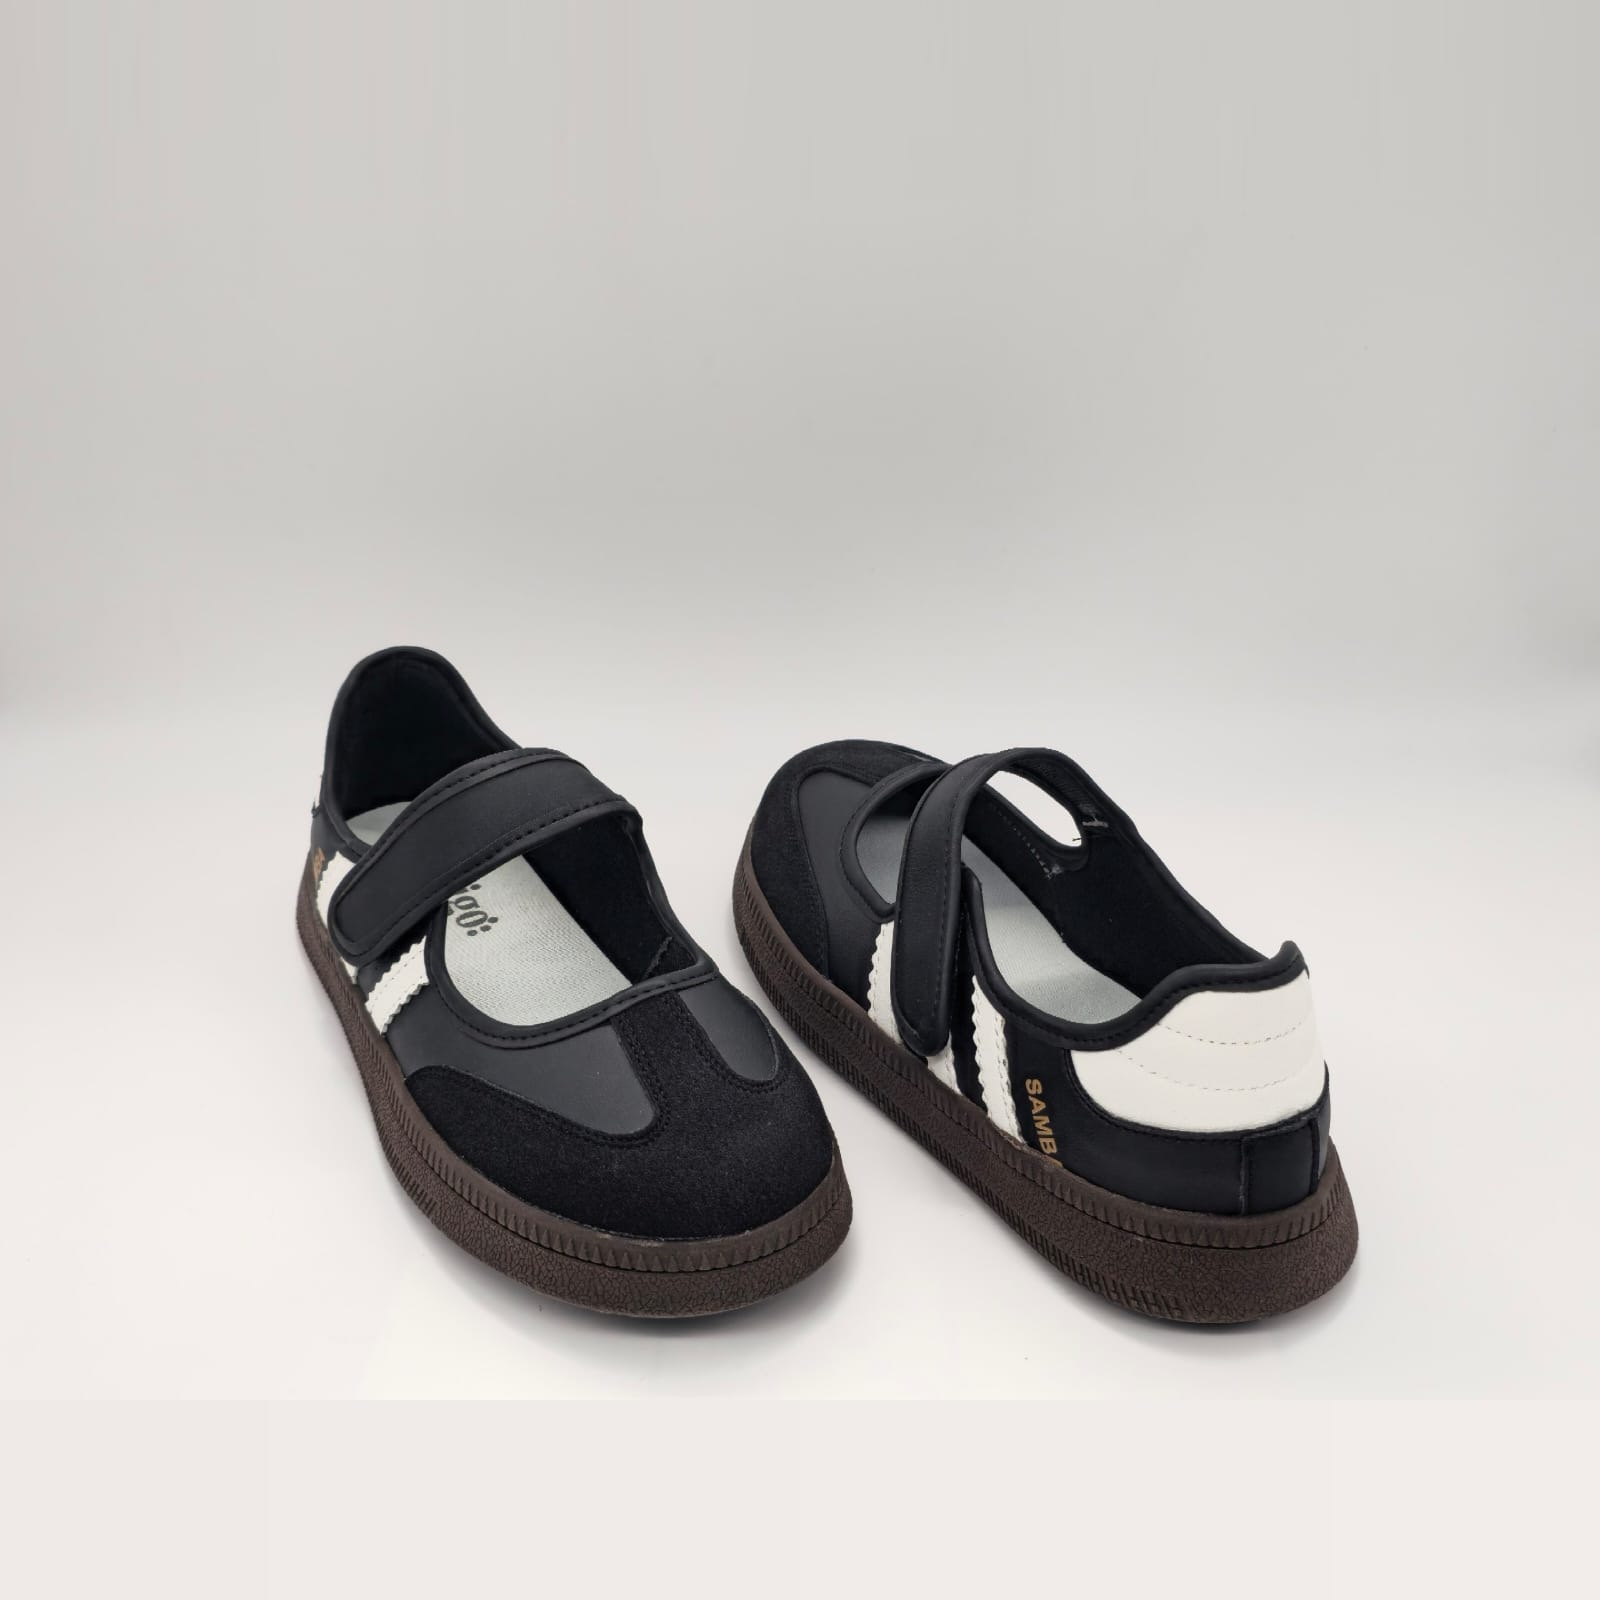
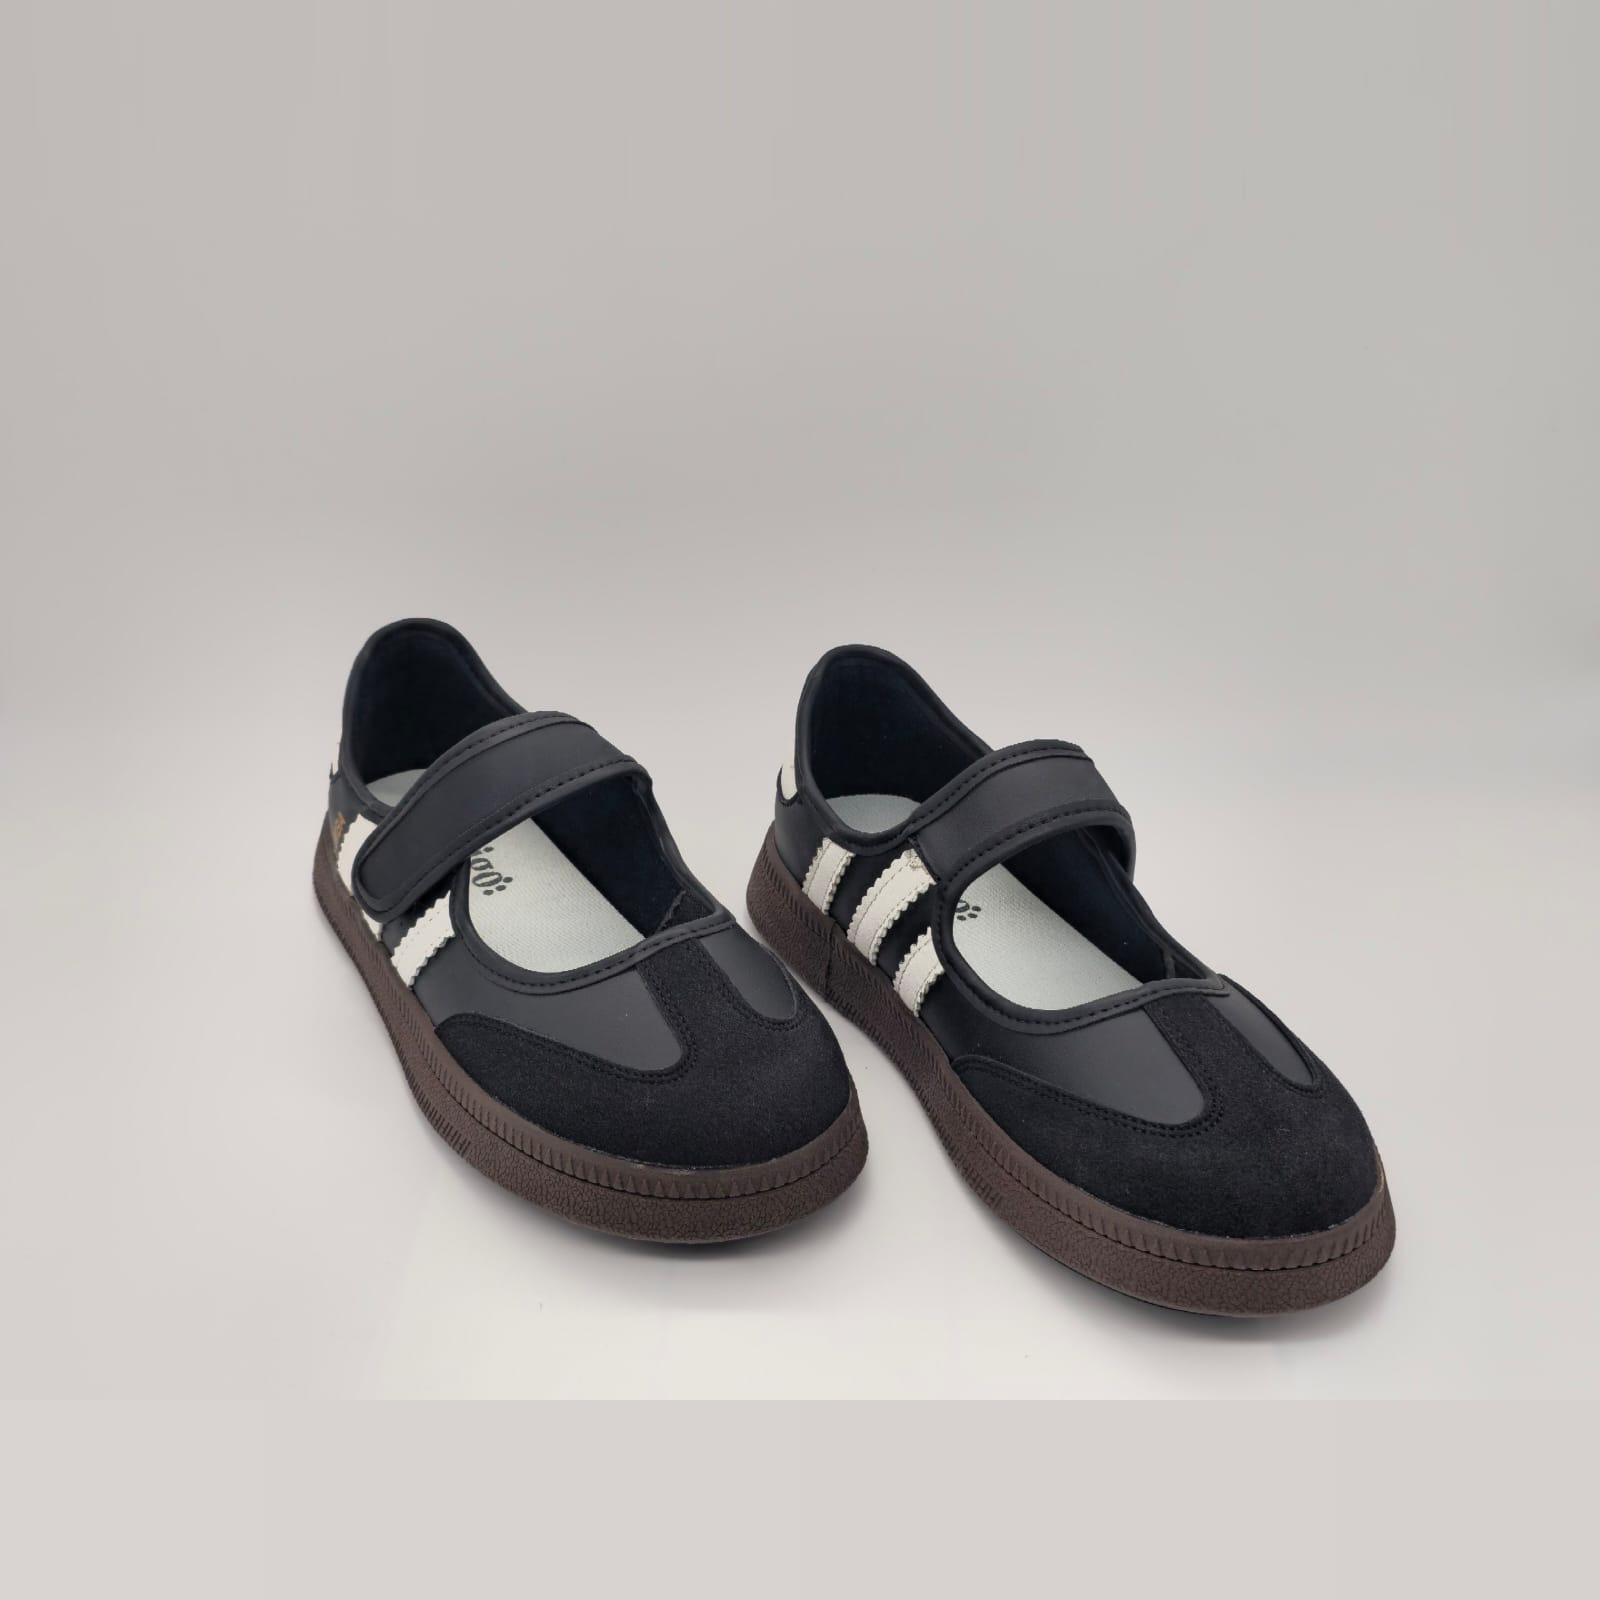
نیمرخ مشکی هم رسید، و حالا تست خودش این قانون را نگه میدارد
عکس نیمرخِ تکلنگهٔ مشکی آمد و اولِ دستش نشست؛ آن پنج تای قبلی یکی رفتند
پایینتر، پس این دست ششتا شد. مهاجرت دیگر عدد پنج را ننوشته و فایلها را از
روی دیسک میشمارد — یک عدد ثابت اینجا یعنی محصولی با عکس آخرِ جاافتاده که
سبز هم میشد.

فایل بایتبهبایت رفته. ابعادش ۱۱۲۵×۱۱۱۶ است، یعنی ۰٫۸٪ از مربع دور — و دو
شرطی که خودم در تست گذاشته بودم (دقیقاً مربع، دستکم ۱۴۰۰) قانون خانگی بودند
نه واقعیتِ جنس، و روی یک عکسِ کاملاً سالم قرمز میشدند. تستی که روی عکس
واقعیِ فروشگاه بیفتد، تستی است که حذف میشود. حالا شرط این است: باز شود،
تقریباً مربع باشد (۵٪ رواداری) و کوچکتر از ۱۰۰۰ نباشد.

و قانونی که مشتری گفت حالا خودش سنجیده میشود: «عکس اول در همه موردا باید
این عکسی باشه که از این زاویس نه عکس دوتایی». تفاوت اندازهپذیر است نه
سلیقهای — کفش را از زمینهٔ استودیو جدا کن و کادرش را بگیر: نیمرخِ یک لنگه
۲٫۶۵ تا ۲٫۸۹ برابرِ ارتفاعش عرض دارد و هر عکسِ جفتی در این چهار دست حداکثر
۱٫۷۶. تست با آستانهٔ ۲٫۲ میایستد، و امتحانش کردم: جای عکس اول و دوم مشکی را
که عوض کنی، قرمز میشود و اسم همان دست را میبرد.

۸۵۷ تست سبز، Pint پاک.

Claude-Session: https://claude.ai/code/session_01N2xd37bDXaSDNPkG9CXLbf

Changed region(s): [[0.1875, 0.375, 1.0, 1.0], [0.0, 0.625, 0.2812, 0.875], [0.9375, 0.7812, 1.0, 0.8125]]

diff --git a/storefront/tests/Feature/SambaPhotographsTest.php b/storefront/tests/Feature/SambaPhotographsTest.php
@@ -57,35 +57,140 @@ class SambaPhotographsTest extends TestCase
 
     // --- the twenty files ---------------------------------------------------
 
-    /** Every photograph the migration names is on disk, and is a photograph. */
-    public function test_all_twenty_photographs_are_committed(): void
+    /** @return list<string> the set's photographs, in the order it offers them */
+    private function filesIn(string $set): array
+    {
+        $files = [];
+
+        for ($n = 1; is_file($p = public_path("assets/img/product/{$set}/{$n}.jpg")); $n++) {
+            $files[] = $p;
+        }
+
+        return $files;
+    }
+
+    /**
+     * Every photograph is on disk, is a photograph, and is shaped like one.
+     *
+     * **Not exactly square, and not 1400.** Those were this file's first two
+     * assertions and both were house rules rather than facts about the goods:
+     * the black profile shot the client sent is 1125×1116, which is 0.8% off
+     * square and perfectly fine in a square tile. A test that fails on a real
+     * photograph the shop wants to sell with is a test that will be deleted.
+     * What is worth holding is that the file exists, opens, and is not some
+     * banner-shaped thing that would sit in the tile with bands round it.
+     */
+    public function test_every_photograph_is_committed_and_shaped_like_a_product_shot(): void
     {
         foreach (self::SETS as $set) {
-            for ($n = 1; $n <= 5; $n++) {
-                $path = public_path("assets/img/product/{$set}/{$n}.jpg");
+            $files = $this->filesIn($set);
 
-                $this->assertFileExists($path, "{$set}/{$n}.jpg is missing.");
+            $this->assertGreaterThanOrEqual(4, count($files), "{$set} has almost no photographs.");
 
+            foreach ($files as $path) {
+                $name = basename(dirname($path)).'/'.basename($path);
                 $size = @getimagesize($path);
 
-                $this->assertIsArray($size, "{$set}/{$n}.jpg is not an image.");
-                $this->assertSame($size[0], $size[1], "{$set}/{$n}.jpg is not square.");
+                $this->assertIsArray($size, "{$name} is not an image.");
+
+                $ratio = $size[0] / $size[1];
+
+                $this->assertGreaterThan(0.95, $ratio, "{$name} is much taller than it is wide.");
+                $this->assertLessThan(1.05, $ratio, "{$name} is much wider than it is tall.");
                 $this->assertGreaterThanOrEqual(
-                    1200,
-                    $size[0],
-                    "{$set}/{$n}.jpg is smaller than a product photograph should be."
+                    1000,
+                    min($size[0], $size[1]),
+                    "{$name} is too small to be a product photograph."
                 );
             }
         }
     }
 
+    /**
+     * **The first photograph of every set is one shoe from the side.**
+     *
+     * «عکس اول در همه موردا باید این عکسی باشه که از این زاویس نه عکس دوتایی» —
+     * and the difference is measurable rather than a matter of taste. Mask the
+     * shoe off the studio ground and take the bounding box: a single shoe in
+     * profile is 2.65–2.89 as wide as it is tall, and every pair shot in these
+     * four sets is at or under 1.76. The gap between those is not close.
+     *
+     * This is the assertion that would catch somebody re-sorting a directory
+     * and putting the pair back in front, which is exactly what happened once
+     * already and had to be corrected by hand.
+     */
+    public function test_the_first_photograph_of_each_set_is_a_single_shoe_in_profile(): void
+    {
+        foreach (self::SETS as $set) {
+            $first = $this->filesIn($set)[0];
+
+            $this->assertGreaterThan(
+                2.2,
+                $this->shoeAspect($first),
+                "The first photograph of {$set} is not a single shoe from the side."
+            );
+        }
+    }
+
+    /**
+     * How wide the shoe is against how tall, in its own frame.
+     *
+     * The ground is the average of the four corners; anything far from it is
+     * shoe. That is the same instrument used to tell these sets apart in the
+     * first place, and it is the only one that survived — a fixed threshold
+     * against the corner colour alone reported "all four edges" for every
+     * studio shot, because the ground is a gradient.
+     */
+    private function shoeAspect(string $path): float
+    {
+        $im = imagecreatefromjpeg($path);
+        $small = imagescale($im, 96, 96);
+        imagedestroy($im);
+
+        $at = function (int $x, int $y) use ($small): array {
+            $rgb = imagecolorat($small, $x, $y);
+
+            return [($rgb >> 16) & 0xFF, ($rgb >> 8) & 0xFF, $rgb & 0xFF];
+        };
+
+        $corners = [$at(0, 0), $at(95, 0), $at(0, 95), $at(95, 95)];
+        $ground = array_map(
+            fn (int $i) => (int) round(array_sum(array_column($corners, $i)) / 4),
+            [0, 1, 2],
+        );
+
+        $minX = 96;
+        $maxX = -1;
+        $minY = 96;
+        $maxY = -1;
+
+        for ($y = 0; $y < 96; $y++) {
+            for ($x = 0; $x < 96; $x++) {
+                $p = $at($x, $y);
+                $far = abs($p[0] - $ground[0]) + abs($p[1] - $ground[1]) + abs($p[2] - $ground[2]);
+
+                if ($far > 70) {
+                    $minX = min($minX, $x);
+                    $maxX = max($maxX, $x);
+                    $minY = min($minY, $y);
+                    $maxY = max($maxY, $y);
+                }
+            }
+        }
+
+        imagedestroy($small);
+
+        if ($maxX < 0) {
+            return 0.0;
+        }
+
+        return ($maxX - $minX + 1) / ($maxY - $minY + 1);
+    }
+
     /** And the four sets are four different shoes, not the same one copied. */
     public function test_the_four_sets_are_four_different_shoes(): void
     {
-        $firsts = array_map(
-            fn (string $set) => md5_file(public_path("assets/img/product/{$set}/1.jpg")),
-            self::SETS,
-        );
+        $firsts = array_map(fn (string $set) => md5_file($this->filesIn($set)[0]), self::SETS);
 
         $this->assertSame(count($firsts), count(array_unique($firsts)));
     }

diff --git a/storefront/database/migrations/2026_09_02_060000_put_the_shops_own_samba_photographs_up.php b/storefront/database/migrations/2026_09_02_060000_put_the_shops_own_samba_photographs_up.php
@@ -30,9 +30,14 @@ use Illuminate\Database\Migrations\Migration;
  * gap. The rest follow in the order they arrived, with the top-down flat lay
  * last.
  *
- * **The black set is the exception and it is not a choice.** Its five
- * photographs are all of the pair — there is no side profile among them — so
- * its first is the squarest three-quarter view until one arrives.
+ * The rule is measurable and `SambaPhotographsTest` measures it: on the shoe's
+ * own bounding box a side profile runs 2.65–2.89 wide for one tall, and
+ * everything else in these sets is at or under 1.76. That is not a stylistic
+ * preference written down — it is the difference between one shoe seen from
+ * the side and two shoes seen at an angle.
+ *
+ * The black set is six rather than five: its profile shot came after the other
+ * five had been placed, so it went in front of them.
  *
  * A migration and not a seeder — `catalogue:seed` runs only on an empty
  * catalogue and this shop has 148 products. And not the panel, only because
@@ -56,10 +61,17 @@ return new class extends Migration
         $photographs = [];
 
         foreach (self::SETS as $suffix => $directory) {
-            $photographs[self::BASE.$suffix] = array_map(
-                fn (int $n) => "assets/img/product/{$directory}/{$n}.jpg",
-                range(1, 5),
-            );
+            // Counted off the disk rather than fixed at five: the black set is
+            // six, because its profile shot arrived after the other five and
+            // went in front of them. A number written here would have shipped
+            // a product missing its last photograph and gone green doing it.
+            $paths = [];
+
+            for ($n = 1; is_file(public_path("assets/img/product/{$directory}/{$n}.jpg")); $n++) {
+                $paths[] = "assets/img/product/{$directory}/{$n}.jpg";
+            }
+
+            $photographs[self::BASE.$suffix] = $paths;
         }
 
         ReplacePhotos::run($photographs);
